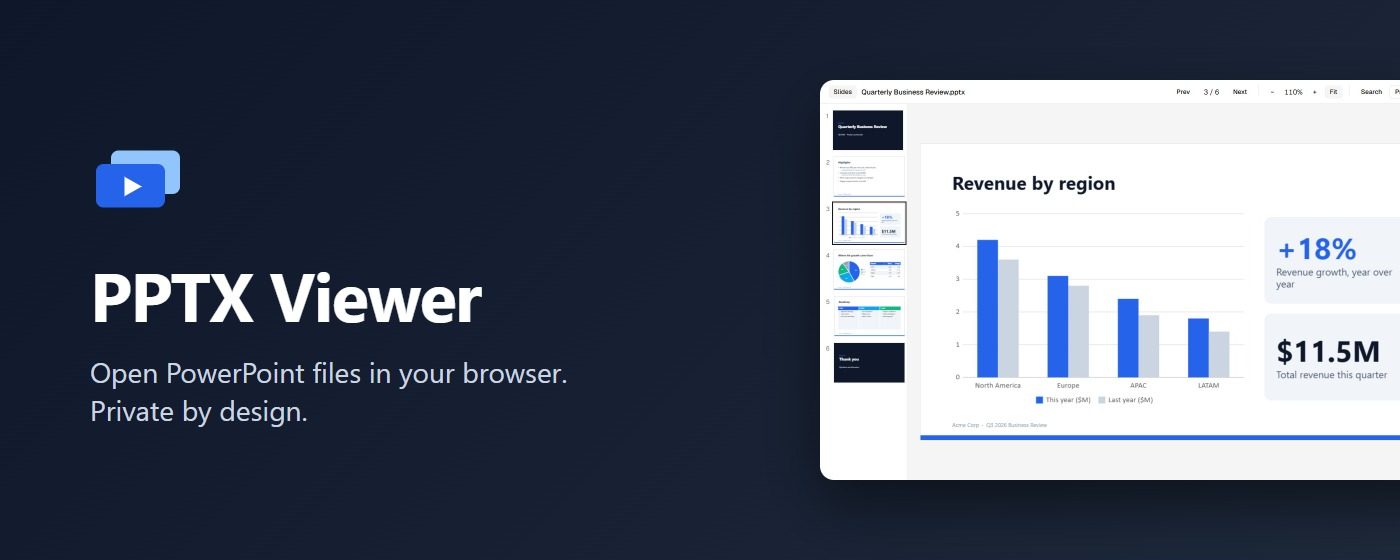
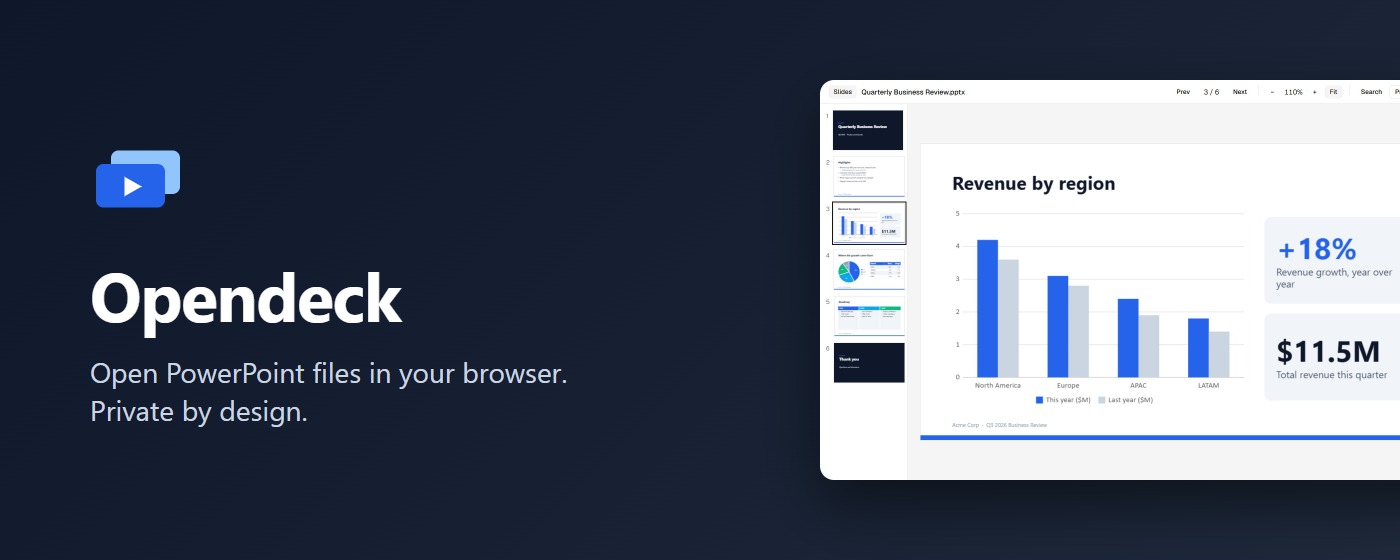
chore: rename the extension to Opendeck and bump to 1.1.0

Changed region(s): [[0.0614, 0.4857, 0.3379, 0.6071]]

diff --git a/public/background.js b/public/background.js
@@ -1,4 +1,4 @@
-// background.js — PPTX Viewer Extension Service Worker
+// background.js — Opendeck Extension Service Worker
 
 'use strict';
 
@@ -31,7 +31,7 @@ function notifyNeedsAccess() {
   chrome.notifications.create('pptx-needs-access', {
     type: 'basic',
     iconUrl: chrome.runtime.getURL('icons/icon128.png'),
-    title: 'PPTX Viewer — one more step',
+    title: 'Opendeck — one more step',
     message: 'Click here to allow opening downloaded presentations in the viewer. The file downloads normally until then.',
     priority: 1,
   });
@@ -128,7 +128,7 @@ chrome.downloads.onChanged.addListener(async (delta) => {
     const [item] = await chrome.downloads.search({ id: delta.id });
     if (item && isPptx(item)) handlePptxDownload(item);
   } catch (err) {
-    console.error('[PPTX Viewer] Could not look up download:', err);
+    console.error('[Opendeck] Could not look up download:', err);
   }
 });
 
@@ -171,7 +171,7 @@ async function sweepStaleHandoffs() {
     });
     db.close();
   } catch (err) {
-    console.warn('[PPTX Viewer] Handoff sweep failed:', err);
+    console.warn('[Opendeck] Handoff sweep failed:', err);
   }
 }
 
@@ -204,7 +204,7 @@ async function handlePptxDownload(item) {
   if (!isFetchable(url)) {
     // blob:/data: URLs can't be re-fetched from the service worker.
     // Leave the native download untouched.
-    console.warn('[PPTX Viewer] Not intercepting download with an unsupported URL:', url);
+    console.warn('[Opendeck] Not intercepting download with an unsupported URL:', url);
     return;
   }
 
@@ -224,7 +224,7 @@ async function handlePptxDownload(item) {
       await chrome.downloads.cancel(item.id);
       await chrome.downloads.erase({ id: item.id });
     } catch (err) {
-      console.warn('[PPTX Viewer] Could not cancel native download:', err);
+      console.warn('[Opendeck] Could not cancel native download:', err);
     }
 
     await chrome.tabs.create({
@@ -232,11 +232,11 @@ async function handlePptxDownload(item) {
     });
   } catch (err) {
     // Native download keeps going, so the user is never left without the file.
-    console.error('[PPTX Viewer] Failed to intercept download:', err);
+    console.error('[Opendeck] Failed to intercept download:', err);
     chrome.notifications.create(`pptx-error-${item.id}`, {
       type: 'basic',
       iconUrl: chrome.runtime.getURL('icons/icon128.png'),
-      title: 'PPTX Viewer — Could not open file',
+      title: 'Opendeck — Could not open file',
       message: /^file:/i.test(url)
         ? 'To open local files directly, turn on "Allow access to file URLs" for this extension. The file will download normally.'
         : 'The file will download normally. Open it later via the toolbar button.',
@@ -247,13 +247,13 @@ async function handlePptxDownload(item) {
   }
 }
 
-// ─── Right-click a link → "Open in PPTX Viewer" ───────────────────────────────
+// ─── Right-click a link → "Open in Opendeck" ───────────────────────────────
 const MENU_ID = 'open-in-viewer';
 
 chrome.runtime.onInstalled.addListener(() => {
   chrome.contextMenus.create({
     id: MENU_ID,
-    title: 'Open in PPTX Viewer',
+    title: 'Open in Opendeck',
     contexts: ['link'],
     targetUrlPatterns: PRESENTATION_EXTENSIONS.flatMap((ext) => [
       `*://*/*.${ext}`, `*://*/*.${ext}?*`, `file:///*.${ext}`,
@@ -274,11 +274,11 @@ chrome.contextMenus.onClicked.addListener(async (info) => {
       url: `${VIEWER_URL}?mode=intercepted&handoff=${encodeURIComponent(handoffId)}`,
     });
   } catch (err) {
-    console.error('[PPTX Viewer] Could not open link:', err);
+    console.error('[Opendeck] Could not open link:', err);
     chrome.notifications.create(`pptx-link-error-${Date.now()}`, {
       type: 'basic',
       iconUrl: chrome.runtime.getURL('icons/icon128.png'),
-      title: 'PPTX Viewer — Could not open link',
+      title: 'Opendeck — Could not open link',
       message: /^file:/i.test(url)
         ? 'Turn on "Allow access to file URLs" for this extension to open local files.'
         : 'The file could not be fetched.',

diff --git a/src/App.tsx b/src/App.tsx
@@ -73,7 +73,7 @@ export default function App() {
       if (isSlideshowFile(name)) setPresenting(true)
       void addRecent(name, bytes).then(refreshRecent).catch(() => undefined)
     } catch (err) {
-      console.error('[PPTX Viewer] Failed to open presentation:', err)
+      console.error('[Opendeck] Failed to open presentation:', err)
       setError(`Could not open the presentation: ${err instanceof Error ? err.message : err}`)
       setStatus(slides.length ? 'ready' : 'empty')
     }
@@ -128,7 +128,7 @@ export default function App() {
         return openBytes(payload.bytes, payload.filename || 'presentation.pptx')
       })
       .catch((err) => {
-        console.error('[PPTX Viewer] Handoff read failed:', err)
+        console.error('[Opendeck] Handoff read failed:', err)
         setStatus('empty')
         setError(`Could not load the presentation: ${err?.message || err}`)
       })

diff --git a/src/renderer/render-canvas.js b/src/renderer/render-canvas.js
@@ -97,7 +97,7 @@ export function loadImage(loadBlob) {
       return img;
     })
     .catch((err) => {
-      console.warn('[PPTX Viewer] Image failed to load:', err);
+      console.warn('[Opendeck] Image failed to load:', err);
       return null;
     });
   touch(loadBlob, entry);
@@ -771,7 +771,7 @@ function drawShapeDispatch(ctx, s, K) {
     }
   } catch (err) {
     // One bad shape must never take down the whole slide.
-    console.warn('[PPTX Viewer] Shape render error:', err, s);
+    console.warn('[Opendeck] Shape render error:', err, s);
   }
 }
 

diff --git a/src/lib/useSlideRender.ts b/src/lib/useSlideRender.ts
@@ -48,7 +48,7 @@ export function useSlideRender(
           })
 
     const run = limited ? thumbnailLimiter(task) : task()
-    run.catch((err: unknown) => console.warn('[PPTX Viewer] Slide render failed:', err))
+    run.catch((err: unknown) => console.warn('[Opendeck] Slide render failed:', err))
 
     return () => controller.abort()
   }, [canvasRef, slide, scale, dpr, cache, limited, enabled, step])

diff --git a/viewer.html b/viewer.html
@@ -3,7 +3,7 @@
   <head>
     <meta charset="UTF-8" />
     <meta name="viewport" content="width=device-width, initial-scale=1.0" />
-    <title>PPTX Viewer</title>
+    <title>Opendeck</title>
     <link rel="icon" type="image/png" href="icons/icon16.png" />
   </head>
   <body>

diff --git a/store/LISTING.md b/store/LISTING.md
@@ -6,8 +6,8 @@ Everything to paste into the Chrome Web Store developer dashboard (and Microsoft
 
 | Field | Value |
 | --- | --- |
-| Name | PPTX Viewer |
-| Summary (132 characters max) | View PowerPoint presentations in your browser, with search and a full-screen slideshow. Files never leave your device. |
+| Name | Opendeck |
+| Summary (132 characters max) | Free, open-source viewer for PowerPoint files, with search and a full-screen slideshow. Files never leave your device. |
 | Category | Productivity |
 | Language | English |
 | Icon | `public/icons/icon128.png` (also in the zip) |
@@ -18,11 +18,11 @@ Everything to paste into the Chrome Web Store developer dashboard (and Microsoft
 ## Description
 
 ```text
-PPTX Viewer opens PowerPoint presentations right in your browser. No upload, no account, no server: your files are read and drawn on your own computer.
+Opendeck opens PowerPoint presentations right in your browser. No upload, no account, no server: your files are read and drawn on your own computer.
 
 OPEN FILES YOUR WAY
 • Click the toolbar icon, choose a file, or drop it on the page
-• Right-click a presentation link and choose "Open in PPTX Viewer"
+• Right-click a presentation link and choose "Open in Opendeck"
 • Optional: open presentations you download straight in the viewer
 • Recent files are one click away
 • Supports .pptx, .ppsx, .potx and macro-enabled variants
@@ -53,7 +53,7 @@ PRIVATE BY DESIGN
 
 Open source (MIT): https://github.com/go3-14/pptx_viewer_extension
 
-PowerPoint is a trademark of Microsoft Corporation. PPTX Viewer is an independent project and is not affiliated with or endorsed by Microsoft.
+PowerPoint is a trademark of Microsoft Corporation. Opendeck is an independent project and is not affiliated with or endorsed by Microsoft.
 ```
 
 ## Single purpose
@@ -65,7 +65,7 @@ PowerPoint is a trademark of Microsoft Corporation. PPTX Viewer is an independen
 | Permission | Justification to paste |
 | --- | --- |
 | `downloads` | Detects when a PowerPoint file starts downloading so it can be opened in the viewer instead. The download is only cancelled after the file has been read successfully; if anything fails, the normal download continues. |
-| `contextMenus` | Adds the single "Open in PPTX Viewer" item when the user right-clicks a link to a presentation file. |
+| `contextMenus` | Adds the single "Open in Opendeck" item when the user right-clicks a link to a presentation file. |
 | `notifications` | Tells the user when a file could not be opened, and (once) how to turn on opening downloads. |
 | Host access (`optional_host_permissions`, `<all_urls>`) | Optional, never requested at install. When the user turns on "Open downloads and links here" in Settings, the extension fetches the specific file the user just downloaded or right-clicked so it can be shown. The address can be on any website, which is why all sites are requested. It is not used to read or modify web pages, and it can be turned off at any time. |
 
@@ -82,7 +82,7 @@ No account or login is needed.
 2. Click the toolbar icon, choose "Choose file", and select store/sample/Quarterly Business Review.pptx from the source repository (https://github.com/go3-14/pptx_viewer_extension/tree/master/store/sample), or any .pptx file.
 3. Use the slide list, Search (Ctrl+F, try "growth"), and the More menu (copy, print, export).
 4. Click Present (or press F5) for the slideshow; press S for the speaker view, ? for all shortcuts, Esc to leave.
-5. Optional feature: in Settings press "Turn on", then click a link to any .pptx file on the web; it opens in the viewer instead of downloading. Right-clicking such a link also offers "Open in PPTX Viewer".
+5. Optional feature: in Settings press "Turn on", then click a link to any .pptx file on the web; it opens in the viewer instead of downloading. Right-clicking such a link also offers "Open in Opendeck".
 
 The extension makes no network requests of its own; it only fetches a file the user explicitly downloads or right-clicks, and only after the user grants the optional access.
 ```

diff --git a/README.md b/README.md
@@ -1,6 +1,6 @@
-# PPTX Viewer
+# Opendeck
 
-A Chrome / Edge extension that opens PowerPoint presentations in the browser, with search, printing and a full-screen slideshow that plays animations. It works on your device: files are parsed and drawn locally, with no server, no upload and no tracking.
+A Chrome, Edge, Firefox and Zen extension that opens PowerPoint presentations in the browser, with search, printing and a full-screen slideshow that plays animations. It works on your device: files are parsed and drawn locally, with no server, no upload and no tracking.
 
 - Opens `.pptx`, `.ppsx`, `.potx` and the macro-enabled variants (`.pptm`, `.ppsm`, `.potm`).
 - Opens from the toolbar, by drag and drop, from a download, from a right-click on a link, or from the recent-files list.
@@ -30,7 +30,7 @@ See [PRIVACY.md](PRIVACY.md) for exactly what is processed, stored and requested
 
 - Toolbar icon, file picker, or drop a file anywhere on the page.
 - Downloads of presentation files open in the viewer instead of being saved. The native download is only cancelled after the file was read successfully, so a failure never loses the file.
-- Right-click a presentation link and choose **Open in PPTX Viewer**.
+- Right-click a presentation link and choose **Open in Opendeck**.
 - Recent files (the last five) on the start screen and in the **More** menu.
 - `.ppsx` shows open straight into the slideshow.
 
@@ -56,7 +56,7 @@ See [PRIVACY.md](PRIVACY.md) for exactly what is processed, stored and requested
 
 ### From a GitHub release (no build needed)
 
-1. Download `pptx-viewer-<version>.zip` from the [Releases page](https://github.com/go3-14/pptx_viewer_extension/releases) and unzip it into a folder you will keep.
+1. Download `opendeck-<version>.zip` from the [Releases page](https://github.com/go3-14/pptx_viewer_extension/releases) and unzip it into a folder you will keep.
 2. Open `chrome://extensions` (or `edge://extensions`) and turn on **Developer mode**.
 3. Click **Load unpacked** and select the unzipped folder (the one containing `manifest.json`).
 
@@ -165,7 +165,7 @@ sequenceDiagram
 - **Detection** uses the file extension, the MIME type or the URL path, and waits for `onChanged` when Chrome has not filled in the filename yet.
 - **Safety order:** the bytes are stored before the native download is cancelled. On any failure the normal download continues and a notification explains.
 - **Handoff:** only an opaque random key travels in the URL. Records that were never read are swept after an hour and at startup.
-- **Right-click menu:** `contextMenus` adds *Open in PPTX Viewer* for links ending in a presentation extension.
+- **Right-click menu:** `contextMenus` adds *Open in Opendeck* for links ending in a presentation extension.
 - **Permissions:** website access is an *optional* host permission. Without it the worker does nothing to downloads; links open the Settings page instead.
 
 ### Viewer app (`src/`)
@@ -301,7 +301,7 @@ Text metrics depend on the fonts installed on your computer, so line breaks can 
 | Permission | Why |
 | --- | --- |
 | `downloads` | Notice a presentation download, read it, then open it in the viewer instead. |
-| `contextMenus` | The *Open in PPTX Viewer* item on links. |
+| `contextMenus` | The *Open in Opendeck* item on links. |
 | `notifications` | Report a file that could not be opened, or how to enable opening downloads. |
 | Website access (optional) | Fetch the file you downloaded or right-clicked. Requested from Settings, never at install. |
 
@@ -344,4 +344,4 @@ Store listing text, images and the release checklist live in [`store/`](store): 
 
 MIT. See [LICENSE](LICENSE). Third-party licences: [public/THIRD_PARTY_LICENSES.txt](public/THIRD_PARTY_LICENSES.txt).
 
-PowerPoint is a trademark of Microsoft Corporation. PPTX Viewer is an independent project and is not affiliated with or endorsed by Microsoft.
+PowerPoint is a trademark of Microsoft Corporation. Opendeck is an independent project and is not affiliated with or endorsed by Microsoft.

diff --git a/store/RELEASING.md b/store/RELEASING.md
@@ -25,7 +25,7 @@ How to publish a version to the Chrome Web Store and Microsoft Edge Add-ons. Lis
 6. Build the upload file:
 
    ```bash
-   npm run package                   # writes release/pptx-viewer-<version>.zip
+   npm run package                   # writes release/opendeck-<version>.zip
    ```
 
 ## Manual check in the real extension (about 10 minutes)
@@ -36,7 +36,7 @@ The automated test cannot cover browser features that only exist in an installed
 - [ ] Toolbar icon opens the viewer; choosing a file, dragging a file and the recent-files list all open it.
 - [ ] Without website access: downloading a `.pptx` saves normally and shows the "one more step" notification once; clicking it opens Settings.
 - [ ] Settings → **Turn on** shows Chrome's permission prompt; afterwards a downloaded `.pptx` opens in the viewer and does **not** appear in downloads.
-- [ ] Right-click a `.pptx` link: **Open in PPTX Viewer** opens it. With access off it opens Settings instead.
+- [ ] Right-click a `.pptx` link: **Open in Opendeck** opens it. With access off it opens Settings instead.
 - [ ] Settings → **Turn off** removes the access again.
 - [ ] A broken or blocked download (for example a link that needs a login you do not have) leaves the normal download in place and shows the notification.
 - [ ] Optional: with "Allow access to file URLs" enabled, opening a local `.pptx` works.
@@ -45,7 +45,7 @@ The automated test cannot cover browser features that only exist in an installed
 
 ## Publish: Chrome Web Store
 
-1. Open the developer dashboard, **Add new item** (or open the existing item and **Package → Upload new package**), and upload `release/pptx-viewer-<version>.zip`.
+1. Open the developer dashboard, **Add new item** (or open the existing item and **Package → Upload new package**), and upload `release/opendeck-<version>.zip`.
 2. **Store listing:** paste the description and summary from LISTING.md; set category Productivity and language English; upload `public/icons/icon128.png`, the five screenshots, the small tile and the marquee.
 3. **Privacy:** paste the single purpose, each permission justification and the privacy-policy URL; answer "no remote code"; leave all data-collection boxes unchecked and accept the three certifications.
 4. **Distribution:** public, all regions (or as you prefer).
@@ -65,7 +65,7 @@ Same zip. Create a new extension in the Partner Center, upload the package, reus
    git push origin v1.0.0
    ```
 
-   Then create a release from that tag on GitHub and upload `release/pptx-viewer-1.0.0.zip`.
+   Then create a release from that tag on GitHub and upload `release/opendeck-1.0.0.zip`.
 2. Add the store links to the README.
 3. Watch the issue tracker and the store's review feedback for the first week.
 
@@ -75,7 +75,7 @@ Bump the version, repeat the checks, run `npm run package`, then upload the new 
 
 ## Firefox and Zen
 
-Firefox and Zen use the same code with a different manifest (event-page background script, add-on id, no Chrome-only keys). `npm run package:firefox` writes `release/pptx-viewer-firefox-<version>.zip`.
+Firefox and Zen use the same code with a different manifest (event-page background script, add-on id, no Chrome-only keys). `npm run package:firefox` writes `release/opendeck-firefox-<version>.zip`.
 
 1. Sign in at <https://addons.mozilla.org/developers/> (free Firefox account).
 2. **Submit a New Add-on**, upload the Firefox zip, and pick how to distribute it:

diff --git a/PRIVACY.md b/PRIVACY.md
@@ -1,6 +1,6 @@
 # Privacy
 
-PPTX Viewer opens PowerPoint files entirely on your device.
+Opendeck opens PowerPoint files entirely on your device.
 
 - **No uploads, no servers, no analytics.** Presentations are read and drawn inside your browser. The extension contains no tracking and makes no network requests of its own.
 - **One fetch, only when you ask.** If you turn on "Open downloads and links here", the extension downloads the specific file you just clicked or right-clicked (the same address your browser was already fetching) so it can show it. Nothing else is requested.
@@ -11,7 +11,7 @@ PPTX Viewer opens PowerPoint files entirely on your device.
 | Permission | Why |
 | --- | --- |
 | `downloads` | Notice when a PowerPoint file starts downloading, so it can open in the viewer instead (the download is only cancelled after the file was read successfully). |
-| `contextMenus` | The "Open in PPTX Viewer" item when you right-click a presentation link. |
+| `contextMenus` | The "Open in Opendeck" item when you right-click a presentation link. |
 | `notifications` | Tell you when a file could not be opened, or how to turn on opening downloads. |
 | Access to websites (`<all_urls>`, **optional**) | Fetch the file you downloaded or right-clicked. Not requested at install: you grant it from Settings and can remove it at any time. |
 
